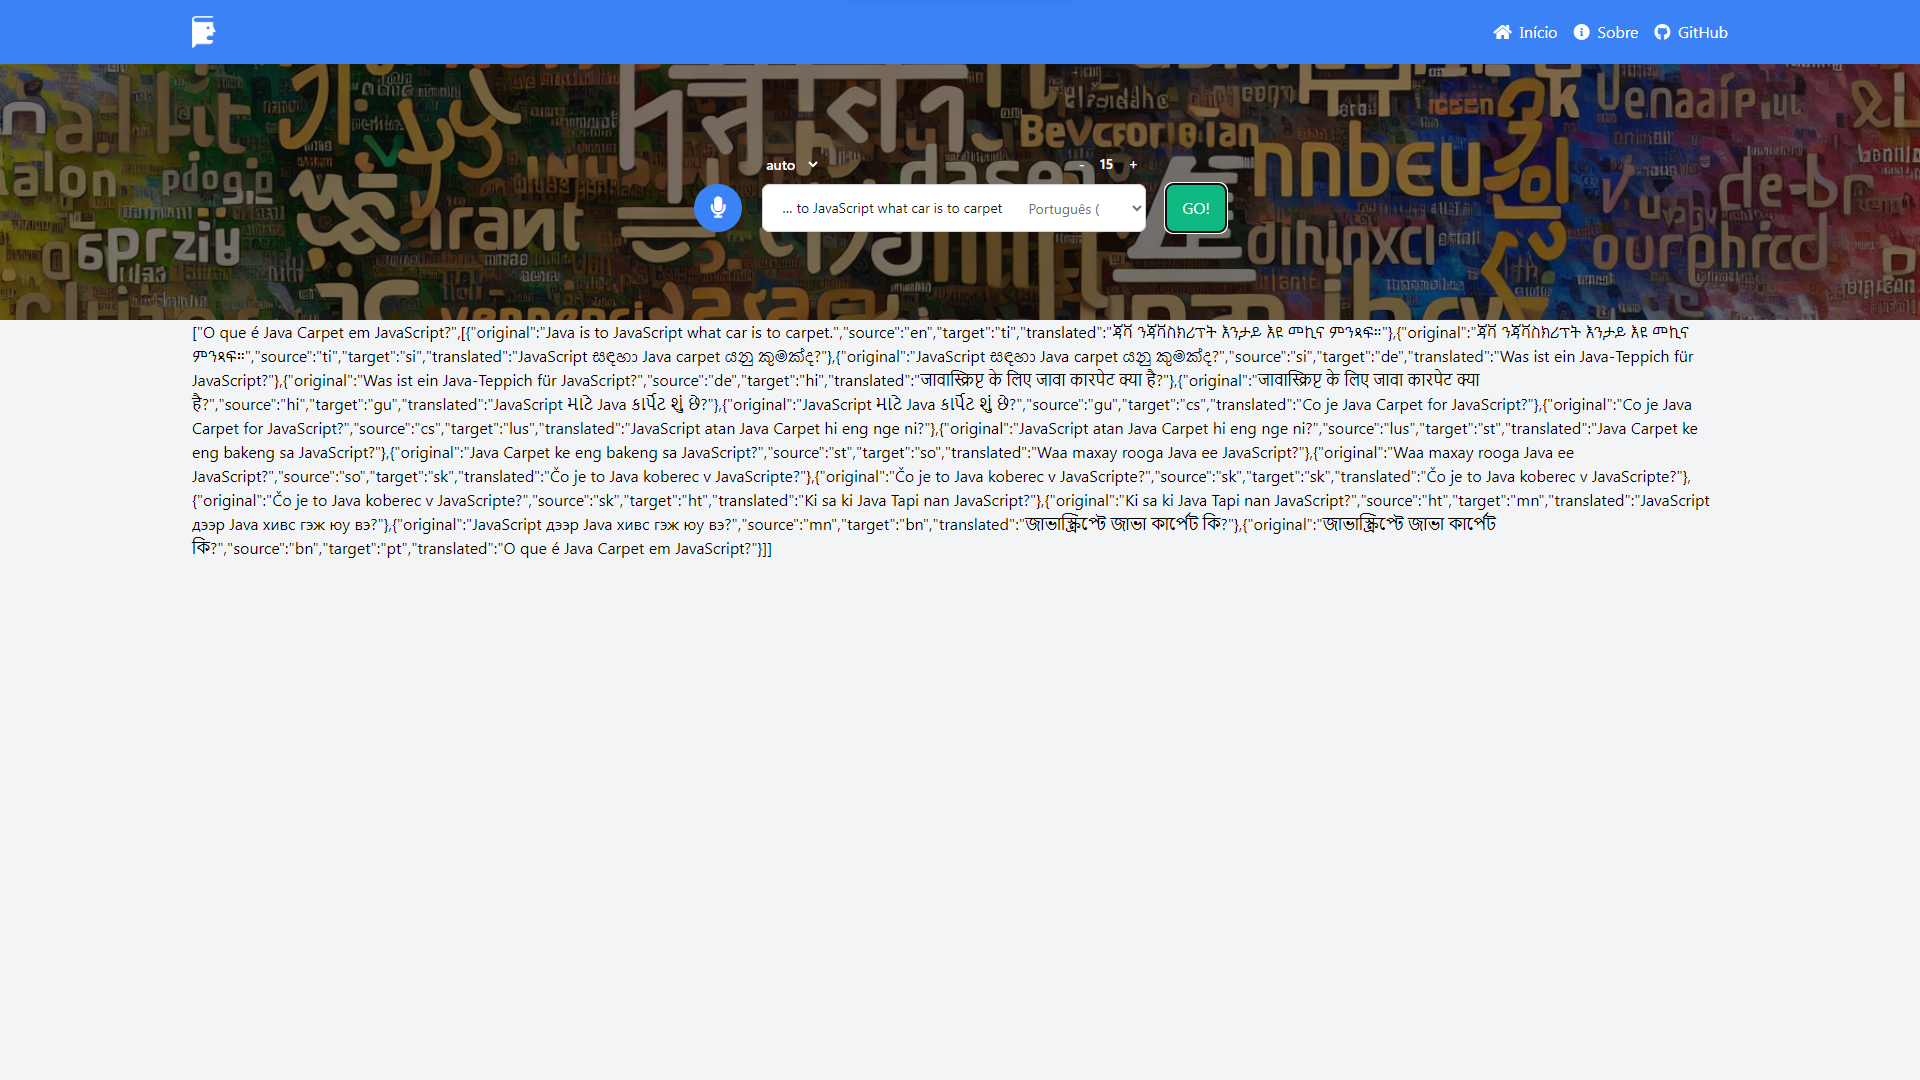
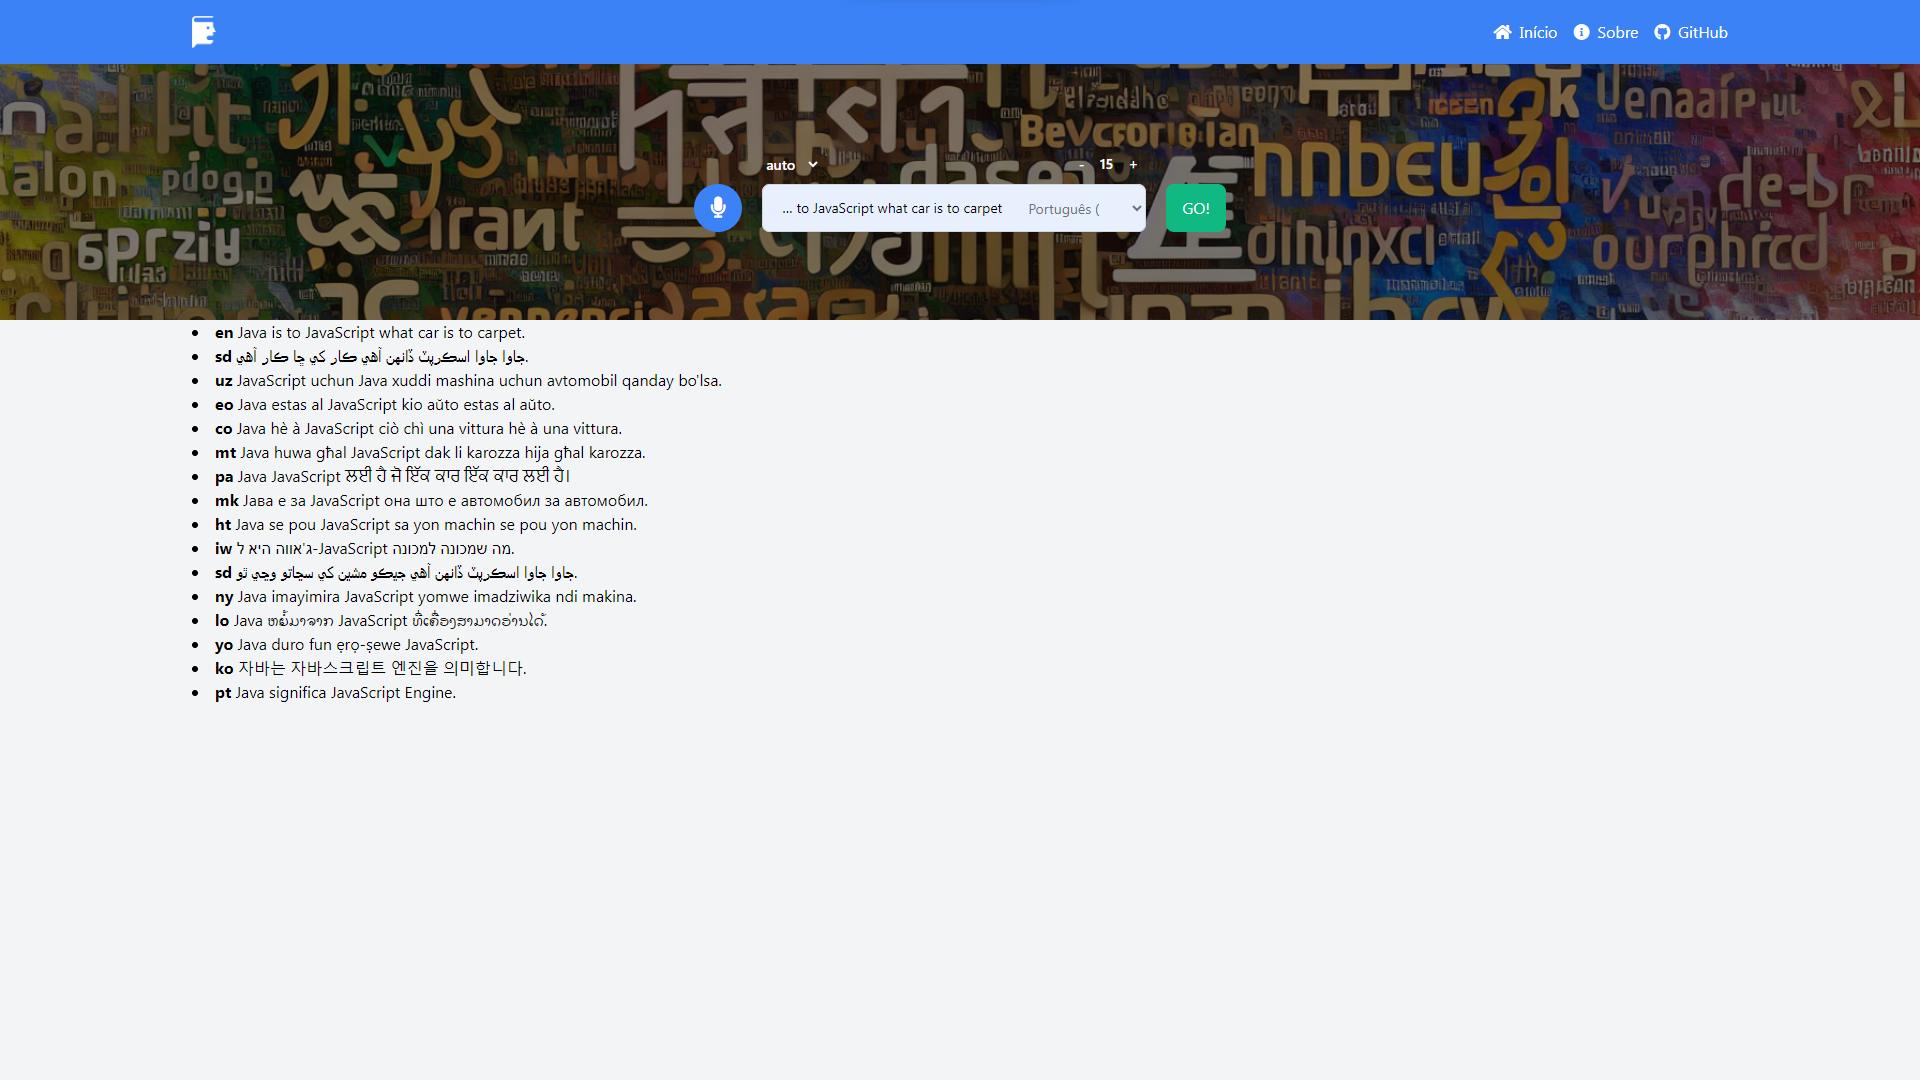
Removed printing the API response as JSON

Changed region(s): [[0.0938, 0.3056, 0.875, 0.6417]]

diff --git a/src/public/app.html b/src/public/app.html
@@ -187,18 +187,21 @@
             fixVoiceBtn()
             resultContainer.innerText = "Loading..."
             const data = new FormData(evt.target)
-            console.log(data)
+
             const result = await hypertranslate(data.get("text"), data.get("source"), data.get("target"), data.get("jumps"))
-            resultContainer.innerText = JSON.stringify(result)
+        
+            resultContainer.innerHTML = ''
+
+            const elem = document.createElement("li")
+            elem.innerHTML = `<b title="${document.querySelector(`[name="target"] [value="${result[1][0].source}"]`).innerText}">${result[1][0].source}</b> ${result[1][0].original}`
+            resultContainer.appendChild(elem)
+
+            for (const item of result[1]) {
+              const elem = document.createElement("li")
+              elem.innerHTML = `<b title="${document.querySelector(`[name="target"] [value="${item.target}"]`).innerText}">${item.target}</b> ${item.translated}`
+              resultContainer.appendChild(elem)
+            }
         })
-
-        // translateBtn.addEventListener("click", async evt => {
-        //     resultContainer.innerText = "Loading..."
-        //     const data = new FormData(evt.target.form)
-        //     const result = await translate(data.get("text"), data.get("source"), data.get("target"))
-        //     resultContainer.innerText = JSON.stringify(result)
-        // })
-
 
         fetch('/api/getTranslateLangs')
             .then(r => r.json())
